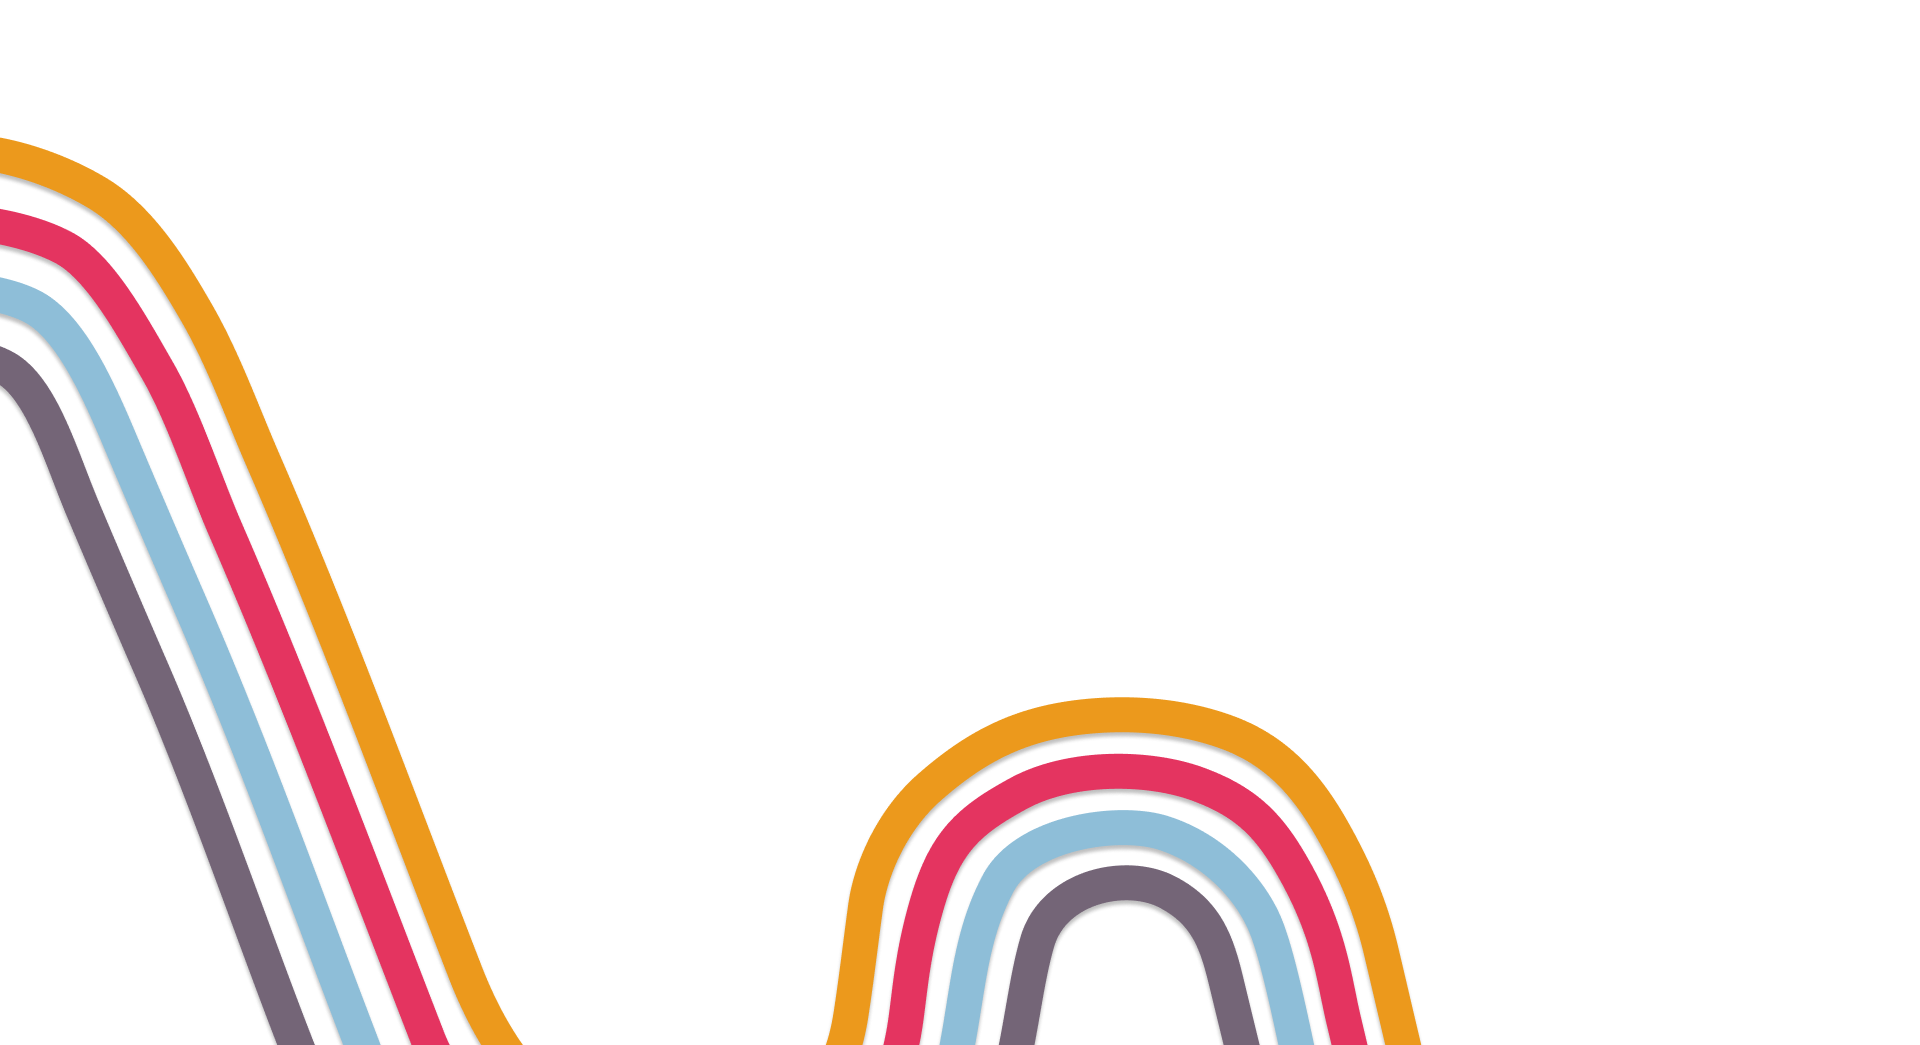
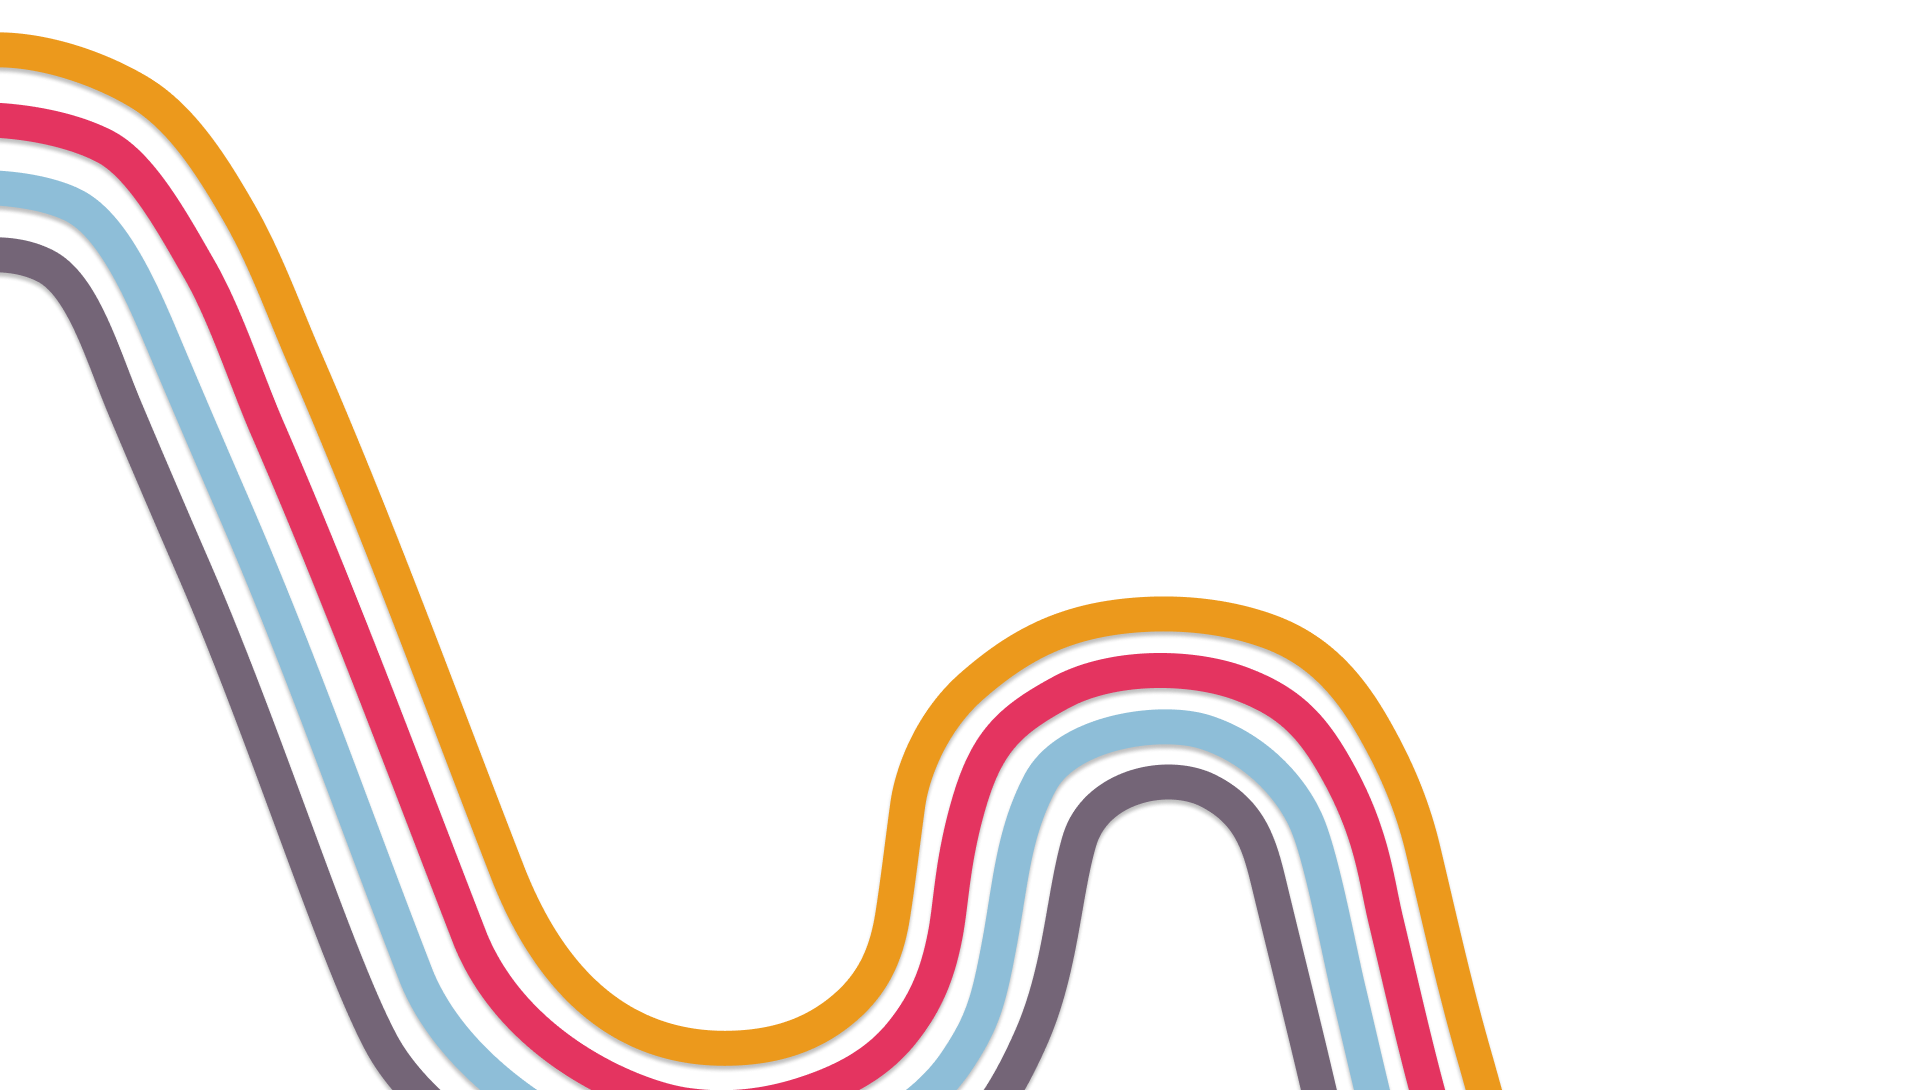
ajustement de la page d'accueil

Changed region(s): [[0.0, 0.0306, 0.7812, 1.0]]

diff --git a/src/apropos.html b/src/apropos.html
@@ -1,109 +1,75 @@
 <!DOCTYPE html>
 <html lang="fr">
-    <head>
-        <meta charset="utf-8" />
-        <meta name="viewport" content="width=device-width, initial-scale=1.0" />
-        <title>Audrey Langlois - Portfolio</title>
 
-        <link rel="stylesheet" href="styles/main.css" />
+<head>
+    <meta charset="utf-8" />
+    <meta name="viewport" content="width=device-width, initial-scale=1.0" />
+    <title>Audrey Langlois - Portfolio</title>
 
-        <script src="scripts/main.js" defer></script>
+    <link rel="stylesheet" href="styles/main.css" />
 
-        <style>
-            .parallelogram__info__general {
-                margin: auto;
-                width: 80vw;
-                height: 80vh;
-                clip-path: polygon(0 0%, 90% 0, 100% 100%, 10% 100%);
-                background: #a1d4f0;
-            }
+    <script src="scripts/main.js" defer></script>
+</head>
 
-            .parallelogram__bonjour {
-                margin: auto;
-                width: 80vw;
-                height: 80vh;
-                clip-path: polygon(0 0%, 90% 0, 100% 100%, 10% 100%);
-                background: #a1d4f0;
-            }
-            .contenuAPropos {
-                display: flex;
-            }
-
-            section[class] {
-                display: flex;
-                justify-content: center;
-                filter: url(#round);
-            }
-        </style>
-    </head>
-
-    <body>
-        <nav class="navPrincipal">
-            <div class="navPrincipal__logo">
-                <img src="assets/images/decorations/DecoNav.png" alt="" />
-                <a href="index.html"><img src="assets/images/Logo.png" alt="" /></a>
-            </div>
-            <ul class="navPrincipal__liste">
-                <li><a href="apropos.html">À propos</a></li>
-                <li><a href="projets.html">Projets</a></li>
-                <li><a href="contact.html">Contact</a></li>
-                <li><a href="">Télécharger mon CV</a></li>
-            </ul>
-
+<body>
+    <nav class="navPrincipal">
+        <div class="navPrincipal__logo">
             <img src="assets/images/decorations/DecoNav.png" alt="" />
-        </nav>
+            <a href="index.html"><img src="assets/images/Logo.png" alt="" /></a>
+        </div>
+        <ul class="navPrincipal__liste">
+            <li><a href="apropos.html">À propos</a></li>
+            <li><a href="projets.html">Projets</a></li>
+            <li><a href="contact.html">Contact</a></li>
+            <li><a href="">Télécharger mon CV</a></li>
+        </ul>
 
-        <section class="infoGeneral">
-            <div class="parallelogram__info__general">
-                <div class="contenuAPropos">
-                    <img class="photoPortfolio" src="assets/images/aPropos/photoPortfolio.png" alt="" />
-                    <p>
-                        Je m’appelle <span class="nom__aPropos">Audrey Langlois.</span>
-                        Je suis étudiante en technique d’intégration multimédia. Depuis que je suis toute petite je suis
-                        passionnée par les jeux vidéos. Ma curiosité sur le développement des jeux vidéo est la raison
-                        pour laquelle je suis dans ce domaine.
-                    </p>
-                    <h2>Je suis:</h2>
-                    <ul>
-                        <li>Créative</li>
-                        <li>Débrouillarde</li>
-                        <li>Minutieuse</li>
-                        <li>Organisée</li>
-                    </ul>
-                </div>
+        <img src="assets/images/decorations/DecoNav.png" alt="" />
+    </nav>
+
+    <section class="infoGeneral">
+        <div class="parallelogram__info__general">
+            <div class="contenuAPropos">
+                <img class="photoPortfolio" src="assets/images/aPropos/photoPortfolio.png" alt="" />
+                <p>
+                    Je m’appelle <span class="nom__aPropos">Audrey Langlois.</span>
+                    Je suis étudiante en technique d’intégration multimédia. Depuis que je suis toute petite je suis
+                    passionnée par les jeux vidéos. Ma curiosité sur le développement des jeux vidéo est la raison
+                    pour laquelle je suis dans ce domaine.
+                </p>
+                <h2>Je suis:</h2>
+                <ul>
+                    <li>Créative</li>
+                    <li>Débrouillarde</li>
+                    <li>Minutieuse</li>
+                    <li>Organisée</li>
+                </ul>
             </div>
-        </section>
-        <div class="parallelogram__bonjour">
-            <h1>Bonjour!</h1>
         </div>
+    </section>
+    <div class="parallelogram__bonjour">
+        <h1>Bonjour!</h1>
+    </div>
 
-        <div class="flèche__scroll1">
-            <h3>Scroll</h3>
-        </div>
+    <div class="flèche__scroll1">
+        <h3>Scroll</h3>
+    </div>
 
-        <svg
-            style="visibility: hidden; position: absolute"
-            width="0"
-            height="0"
-            xmlns="http://www.w3.org/2000/svg"
-            version="1.1"
-        >
-            <defs>
-                <filter id="round">
-                    <feGaussianBlur in="SourceGraphic" stdDeviation="5" result="blur" />
-                    <feColorMatrix
-                        in="blur"
-                        mode="matrix"
-                        values="1 0 0 0 0  0 1 0 0 0  0 0 1 0 0  0 0 0 19 -9"
-                        result="goo"
-                    />
-                    <feComposite in="SourceGraphic" in2="goo" operator="atop" />
-                </filter>
-            </defs>
-        </svg>
+    <svg style="visibility: hidden; position: absolute" width="0" height="0" xmlns="http://www.w3.org/2000/svg"
+        version="1.1">
+        <defs>
+            <filter id="round">
+                <feGaussianBlur in="SourceGraphic" stdDeviation="5" result="blur" />
+                <feColorMatrix in="blur" mode="matrix" values="1 0 0 0 0  0 1 0 0 0  0 0 1 0 0  0 0 0 19 -9"
+                    result="goo" />
+                <feComposite in="SourceGraphic" in2="goo" operator="atop" />
+            </filter>
+        </defs>
+    </svg>
 
-        <footer class="footer">
-            <p class="">AudreyLanglois©TousDroitsReservés</p>
-        </footer>
-    </body>
+    <footer class="footer">
+        <p class="">AudreyLanglois©TousDroitsReservés</p>
+    </footer>
+</body>
+
 </html>

diff --git a/src/index.html b/src/index.html
@@ -1,80 +1,75 @@
 <!DOCTYPE html>
 <html lang="fr">
-    <head>
-        <meta charset="utf-8" />
-        <meta name="viewport" content="width=device-width, initial-scale=1.0" />
-        <title>Audrey Langlois - Portfolio</title>
 
-        <link rel="stylesheet" href="styles/main.css" />
+<head>
+    <meta charset="utf-8" />
+    <meta name="viewport" content="width=device-width, initial-scale=1.0" />
+    <title>Audrey Langlois - Portfolio</title>
 
-        <link rel="preconnect" href="https://fonts.googleapis.com" />
-        <link rel="preconnect" href="https://fonts.gstatic.com" crossorigin />
-        <link
-            href="https://fonts.googleapis.com/css2?family=Bungee&family=Bungee+Inline&family=Bungee+Outline&family=Bungee+Shade&family=Comfortaa:wght@400;700&family=Telex&display=swap"
-            rel="stylesheet"
-        />
+    <link rel="stylesheet" href="styles/main.css" />
 
-        <!--Imports a model-viewer JavaScript code -->
-        <!--It helps to handle how the 3D Object would be displayed -->
-        <script type="module" src="https://unpkg.com/@google/model-viewer/dist/model-viewer.min.js"></script>
-        <script nomodule src="https://unpkg.com/@google/model-viewer/dist/model-viewer-legacy.js"></script>
+    <link rel="preconnect" href="https://fonts.googleapis.com" />
+    <link rel="preconnect" href="https://fonts.gstatic.com" crossorigin />
+    <link
+        href="https://fonts.googleapis.com/css2?family=Bungee&family=Bungee+Inline&family=Bungee+Outline&family=Bungee+Shade&family=Comfortaa:wght@400;700&family=Telex&display=swap"
+        rel="stylesheet" />
 
-        <script src="scripts/main.js" defer></script>
-    </head>
+    <!--Imports a model-viewer JavaScript code -->
+    <!--It helps to handle how the 3D Object would be displayed -->
+    <script type="module" src="https://unpkg.com/@google/model-viewer/dist/model-viewer.min.js"></script>
+    <script nomodule src="https://unpkg.com/@google/model-viewer/dist/model-viewer-legacy.js"></script>
 
-    <body class="accueil">
-        <nav class="navPrincipal">
-            <div class="navPrincipal__logo">
-                <img src="assets/images/decorations/DecoNav.png" alt="" />
-                <a href="index.html"><img src="assets/images/Logo.png" alt="" /></a>
-            </div>
-            <ul class="navPrincipal__liste">
-                <li><a href="apropos.html">À propos</a></li>
-                <li><a href="projets.html">Projets</a></li>
-                <li><a href="contact.html">Contact</a></li>
-                <li><a href="">Télécharger mon CV</a></li>
-            </ul>
+    <script src="scripts/main.js" defer></script>
+</head>
 
-            <img class="navPrincipal__decorDroite" src="assets/images/decorations/DecoNav.png" alt="" />
-        </nav>
+<body class="accueil">
+    <nav class="navPrincipal">
+        <div class="navPrincipal__logo">
+            <img src="assets/images/decorations/DecoNav.png" alt="" />
+            <a href="index.html"><img src="assets/images/Logo.png" alt="" /></a>
+        </div>
+        <ul class="navPrincipal__liste">
+            <li><a href="apropos.html">À propos</a></li>
+            <li><a href="projets.html">Projets</a></li>
+            <li><a href="contact.html">Contact</a></li>
+            <li><a href="">Télécharger mon CV</a></li>
+        </ul>
 
-        <section class="hero">
-            <article class="queen">
-                <div></div>
-                <div></div>
-                <div></div>
-                <p class="slogan">La queen de la 3D</p>
-                <div></div>
-                <div></div>
-                <div></div>
-            </article>
+        <img class="navPrincipal__decorDroite" src="assets/images/decorations/DecoNav.png" alt="" />
+    </nav>
 
-            <article class="textAccueil">
-                <h1>Audrey Langlois</h1>
+    <section class="hero">
+        <article class="queen">
+            <div></div>
+            <div></div>
+            <div></div>
+            <p class="slogan">La queen de la 3D</p>
+            <div></div>
+            <div></div>
+            <div></div>
+        </article>
 
-                <a href="projets.html">
-                    <button class="bouttonAccueil">Explorer mes projets</button>
-                    <img src="assets/images/decorations/BouttonAccueil.png" alt=""
-                /></a>
-            </article>
-        </section>
+        <article class="textAccueil">
+            <h1>Audrey Langlois</h1>
 
-        <section class="model3D">
-            <!-- 3D object -->
-            <!-- This inserts the 3D object inside the aside container -->
-            <model-viewer
-                src="assets/objet3d/garford_antique/scene.gltf"
-                alt="VR Headset"
-                camera-controls
-                disable-zoom
-                camera-orbit="30deg 90deg 15m"
-                ar
-                ios-src="assets/objet3d/garford_antique/scene.gltf"
-            ></model-viewer>
-        </section>
+            <a href="projets.html">
+                <button class="bouttonAccueil">Explorer mes projets</button>
+                <img src="assets/images/decorations/BouttonAccueil.png" alt="" /></a>
+        </article>
+    </section>
 
-        <footer class="footer">
-            <p class="">AudreyLanglois©TousDroitsReservés</p>
-        </footer>
-    </body>
+    <section class="model3D">
+        <!-- 3D object -->
+        <!-- This inserts the 3D object inside the aside container -->
+        <model-viewer class="3d-accueil" src="assets/objet3d/garford_antique/scene.gltf" alt="VR Headset"
+            camera-controls disable-zoom camera-orbit="30deg 90deg 15m" ar
+            ios-src="assets/objet3d/garford_antique/scene.gltf">
+        </model-viewer>
+    </section>
+
+    <footer class="footer">
+        <p class="">AudreyLanglois©TousDroitsReservés</p>
+    </footer>
+</body>
+
 </html>

diff --git a/src/styles/components/hero.scss b/src/styles/components/hero.scss
@@ -1,13 +1,14 @@
 .hero {
-    margin-top: 95px;
+    height:100vh;
     display: flex;
     flex-direction: column;
     justify-content: center;
     align-items: center;
     width: 85%;
+    background-image: url(../../assets/images/DecorRetroBackgroundAccueil.png);
+    background-clip: border-box;
     .queen {
         display: flex;
-        padding-top: 230px;
         justify-content: space-between;
         align-items: center;
         width: 35%;
@@ -65,7 +66,7 @@
         height: 80%;
         width: 30%;
         position: absolute;
-        bottom: -250px;
+        bottom: -100px;
         right: 0;
     }
 }

diff --git a/src/styles/components/formesAffiches.scss b/src/styles/components/formesAffiches.scss
@@ -1,0 +1,27 @@
+.parallelogram__info__general {
+    margin: auto;
+    width: 80vw;
+    height: 80vh;
+    clip-path: polygon(0 0%, 90% 0, 100% 100%, 10% 100%);
+    background: #a1d4f0;
+}
+
+.parallelogram__bonjour {
+    margin: auto;
+    width: 10vw;
+    height: 5vh;
+    clip-path: polygon(0 0%, 90% 0, 100% 100%, 10% 100%);
+    background: #a1d4f0;
+}
+.contenuAPropos {
+    display: flex;
+}
+
+section[class] {
+    display: flex;
+    justify-content: center;
+    filter: url(#round);
+}
+
+// writing-mode: vertical-rl;
+// text-orientation: upright;

diff --git a/src/styles/main.scss b/src/styles/main.scss
@@ -33,6 +33,7 @@
 @import '../../node_modules/swiper/components/pagination/pagination.scss';
 
 @import 'components/hero';
+@import 'components/formesAffiches';
 
 // UTILITIES
 // Utilitaires et classes auxiliaires avec possibilité de remplacer tout ce qui précède, par exemple masquer les éléments de la page

diff --git a/src/styles/elements/body.scss b/src/styles/elements/body.scss
@@ -20,5 +20,6 @@ body {
 }
 
 .accueil {
-    background-image: url(../../assets/images/DecorRetroBackgroundAccueil.png);
+    background-image: none;
+    overflow-y: hidden;
 }

diff --git a/src/styles/elements/footer.scss b/src/styles/elements/footer.scss
@@ -11,9 +11,3 @@ footer {
         padding-left: 10%;
     }
 }
-
-.accueil {
-    footer {
-        bottom: -289px;
-    }
-}
